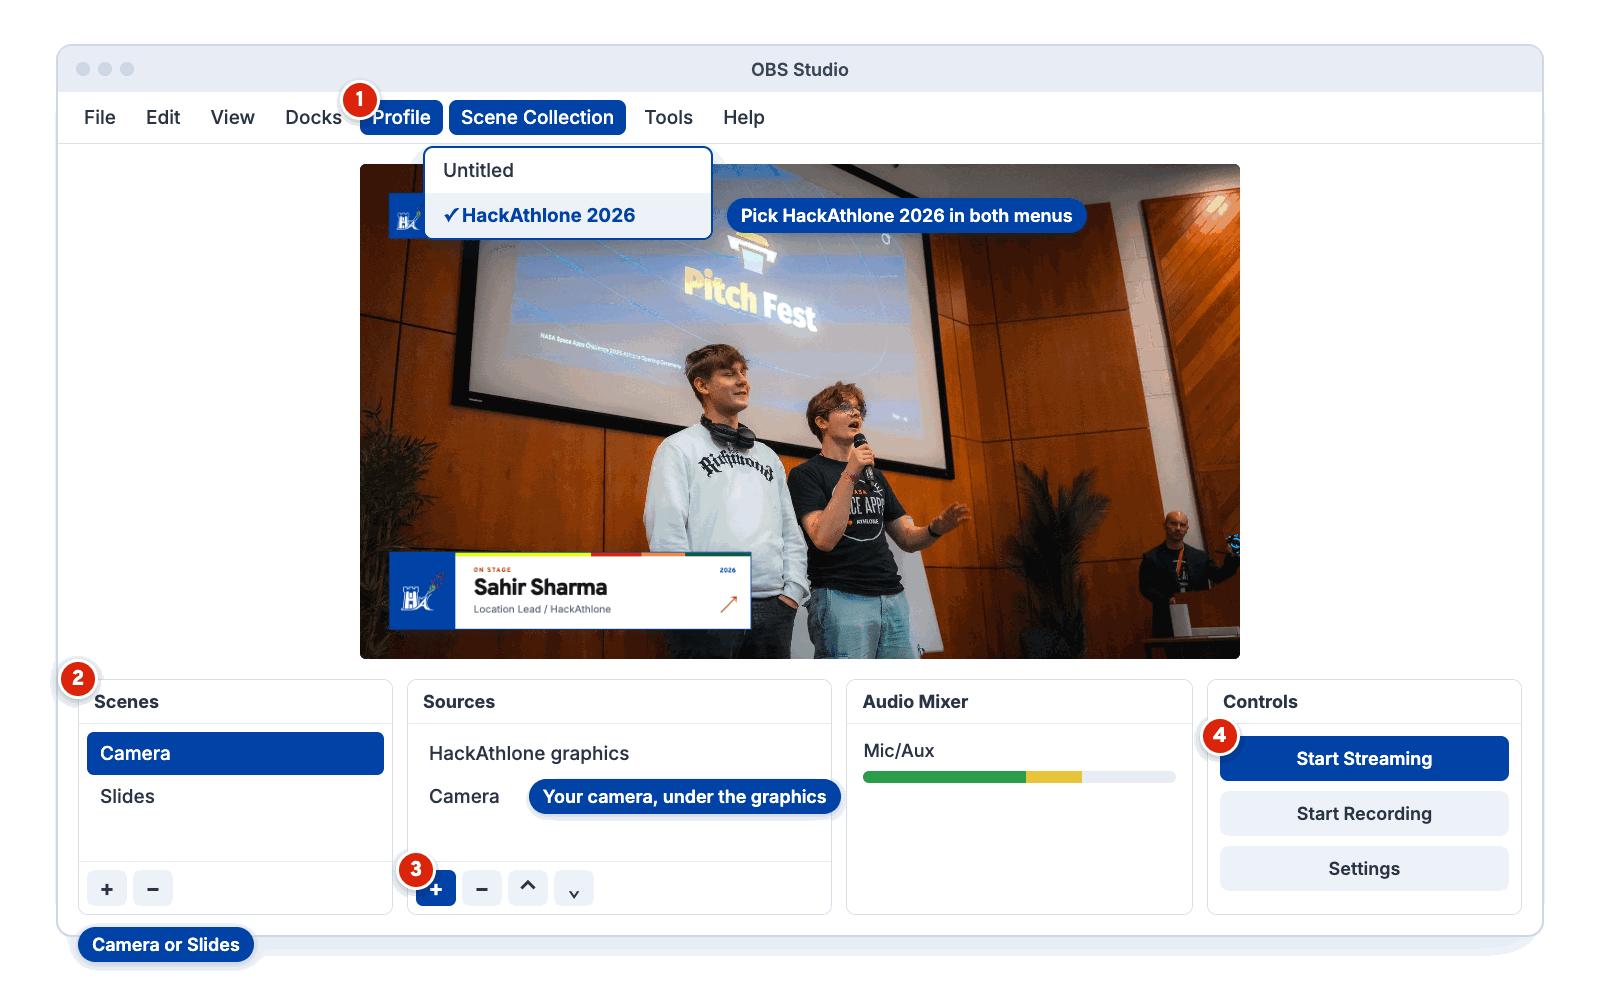
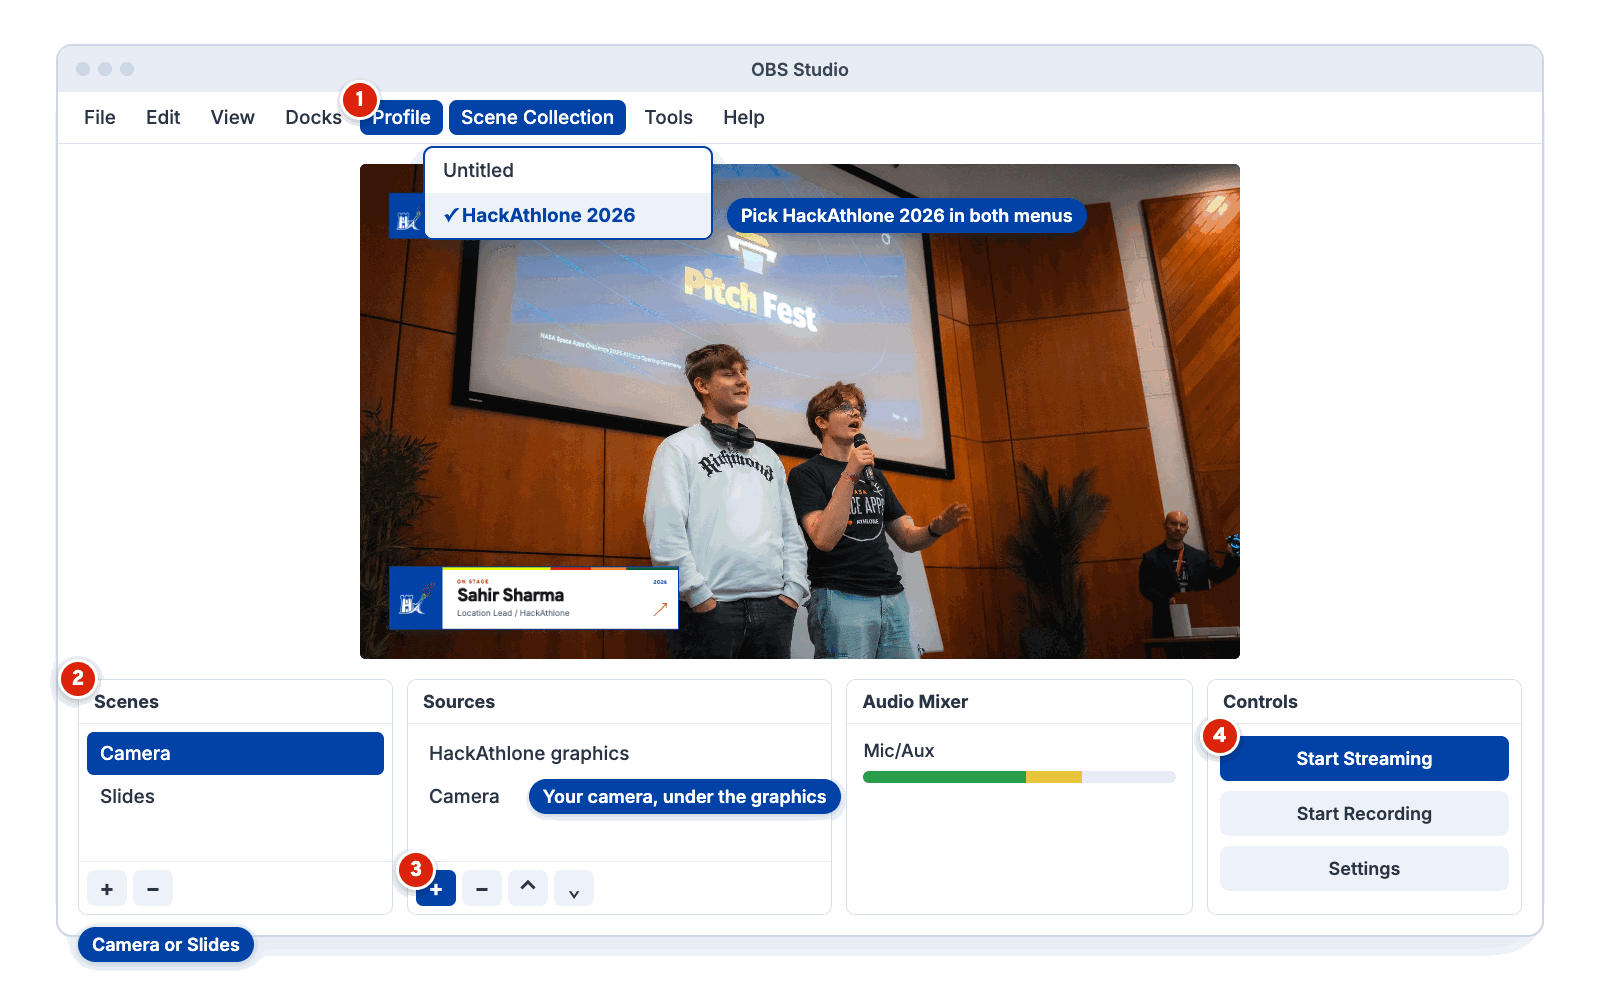
Make the speaker and team name graphic 80% of its size, and refresh the guide pictures

Changed region(s): [[0.2188, 0.5471, 0.4688, 0.6383]]

diff --git a/dist/overlay.css b/dist/overlay.css
@@ -3,7 +3,7 @@
 *{box-sizing:border-box}html,body{margin:0;width:100%;height:100%;overflow:hidden;background:transparent;color:#111;font-family:Inter,'Segoe UI',sans-serif}
 #canvas{--accent:#ff883e;--safe:64px;--electric:#0042a6;--rocket:#db240b;--flame:#ff883e;--forest:#0b5d3b;--neon:#eafe07;--line:#c9d8ef;width:1920px;height:1080px;position:absolute;transform-origin:top left;overflow:hidden}.hidden{opacity:0!important;visibility:hidden!important;pointer-events:none}.bug,.lower,.timer,.agenda,.partners,.ticker,.slate{transition:opacity .38s ease,transform .55s cubic-bezier(.22,1,.36,1),visibility .55s}
 .bug{position:absolute;top:var(--safe);left:var(--safe);display:flex;align-items:stretch}.brand-tile{width:98px;height:98px;background:var(--electric);display:grid;place-items:center;box-shadow:0 0 0 1px #00307a}.brand-tile img{width:72px;height:72px}.bug>div:last-child{min-width:340px;padding:19px 27px 15px;background:#fff;border:2px solid var(--electric);border-left:0;display:flex;flex-direction:column;justify-content:center;box-shadow:0 14px 32px #00307a1d}.bug b{color:#111;font:800 26px/1 Overpass,sans-serif;letter-spacing:-.035em}.bug span{margin-top:9px;color:var(--electric);font-size:13px;font-weight:750;letter-spacing:.13em;text-transform:uppercase}.bug.hidden{transform:translateY(-28px)}
-.lower{position:absolute;left:var(--safe);bottom:calc(var(--safe) + var(--bottom-offset,0px));min-width:790px;max-width:1500px;display:flex;background:#fff;border:2px solid var(--electric);box-shadow:0 18px 46px #00307a26;overflow:hidden}.lower:after{content:'';position:absolute;left:142px;right:0;top:0;height:8px;background:linear-gradient(90deg,var(--neon) 0 46%,var(--rocket) 46% 63%,var(--flame) 63% 78%,var(--forest) 78%)}.lower.hidden{transform:translateY(55px)}.lower-mark{width:142px;flex:0 0 142px;background:var(--electric);display:grid;place-items:center}.lower-mark img{width:102px;height:102px}.lower-content{min-width:0;padding:31px 40px 30px}.lower-eyebrow{display:block;color:var(--rocket);font:800 13px Overpass,sans-serif;letter-spacing:.2em}.lower h1{margin:8px 0 6px;color:#111;font:800 50px/.98 Overpass,sans-serif;letter-spacing:-.05em;overflow-wrap:anywhere}.lower p{margin:0;color:#586173;font-size:22px;overflow-wrap:anywhere}.lower-end{margin-left:auto;padding:31px 27px 23px 10px;color:var(--electric);font:750 14px Overpass,sans-serif;display:flex;flex-direction:column;justify-content:space-between}.lower-end span{color:var(--rocket);font-size:40px}
+.lower{position:absolute;left:var(--safe);bottom:calc(var(--safe) + var(--bottom-offset,0px));min-width:632px;max-width:1200px;display:flex;background:#fff;border:2px solid var(--electric);box-shadow:0 14px 37px #00307a26;overflow:hidden}.lower:after{content:'';position:absolute;left:114px;right:0;top:0;height:6px;background:linear-gradient(90deg,var(--neon) 0 46%,var(--rocket) 46% 63%,var(--flame) 63% 78%,var(--forest) 78%)}.lower.hidden{transform:translateY(44px)}.lower-mark{width:114px;flex:0 0 114px;background:var(--electric);display:grid;place-items:center}.lower-mark img{width:82px;height:82px}.lower-content{min-width:0;padding:25px 32px 24px}.lower-eyebrow{display:block;color:var(--rocket);font:800 11px Overpass,sans-serif;letter-spacing:.2em}.lower h1{margin:6px 0 5px;color:#111;font:800 40px/.98 Overpass,sans-serif;letter-spacing:-.05em;overflow-wrap:anywhere}.lower p{margin:0;color:#586173;font-size:18px;overflow-wrap:anywhere}.lower-end{margin-left:auto;padding:25px 22px 18px 8px;color:var(--electric);font:750 12px Overpass,sans-serif;display:flex;flex-direction:column;justify-content:space-between}.lower-end span{color:var(--rocket);font-size:32px}
 .timer{position:absolute;right:var(--safe);top:var(--safe);min-width:300px;padding:20px 29px 18px;background:#fff;border:2px solid var(--electric);border-top:8px solid var(--electric);text-align:right;box-shadow:0 14px 32px #00307a1d}.timer span{display:block;max-width:430px;color:var(--rocket);font:800 13px Overpass,sans-serif;letter-spacing:.18em}.timer strong{display:block;color:var(--electric);font:800 61px/.98 Overpass,sans-serif;letter-spacing:-.05em;font-variant-numeric:tabular-nums}.timer.expired{border-color:var(--rocket)}.timer.expired strong{color:var(--rocket)}
 .agenda{position:absolute;right:var(--safe);top:220px;width:570px;padding:33px 35px 30px;background:#fff;border:2px solid var(--electric);border-top:12px solid var(--electric);box-shadow:0 18px 46px #00307a26}.eyebrow{margin:0;color:var(--rocket);font:800 14px Overpass,sans-serif;letter-spacing:.2em}.agenda h2{margin:13px 0 23px;color:var(--electric);font:800 47px/.95 Overpass,sans-serif;letter-spacing:-.05em}.agenda-item{padding:19px 0;border-top:1px solid var(--line);display:flex;gap:23px}.agenda-item time{flex:0 0 83px;color:var(--electric);font:800 21px Overpass,sans-serif}.agenda-item b{display:block;color:#111;font:750 22px/1.15 Overpass,sans-serif}.agenda-item span{display:block;margin-top:7px;color:#657087;font-size:15px}.agenda footer{margin-top:17px;padding-top:16px;border-top:1px solid var(--line);color:var(--forest);font-size:11px;font-weight:750;letter-spacing:.13em}
 .partners{position:absolute;left:0;right:0;bottom:0;height:122px;background:#fff;border-top:7px solid var(--electric);display:flex;align-items:center;box-shadow:0 -12px 36px #00307a17}.partner-heading{height:115px;flex:0 0 320px;padding:0 38px;background:var(--electric);color:#fff;font:800 14px/1.45 Overpass,sans-serif;letter-spacing:.14em;display:flex;align-items:center;position:relative}.partner-heading span{position:absolute;right:25px;top:36px;color:var(--neon);font-size:31px}.partner-window{height:100%;flex:1;overflow:hidden}.partner-track{height:100%;width:max-content;display:flex;animation:marquee var(--speed,35s) linear infinite}.partner-group{height:100%;display:flex;align-items:center;flex-shrink:0}.partner{height:100%;min-width:400px;padding:0 50px;border-right:1px solid var(--line);display:flex;align-items:center}.partner>div{width:100%}.partner small{display:block;margin-bottom:8px;color:var(--rocket);font:800 10px Overpass,sans-serif;letter-spacing:.16em}.partner b{color:#111;font:800 27px Overpass,sans-serif;white-space:nowrap}.partner img{display:block;max-width:230px;max-height:64px;object-fit:contain;background:var(--electric);padding:7px 12px}
@@ -33,14 +33,14 @@
 @keyframes slate-rise{from{opacity:0;transform:translateY(34px)}to{opacity:1;transform:translateY(0)}}
 @keyframes logo-pop{from{opacity:0;transform:scale(.82);transform-origin:left center}to{opacity:1;transform:scale(1);transform-origin:left center}}
 @keyframes panel-arrive{from{opacity:0;transform:translateY(-22px) scale(.98)}to{opacity:1;transform:translateY(0) scale(1)}}
-@keyframes lower-arrive{from{opacity:0;transform:translateY(42px)}to{opacity:1;transform:translateY(0)}}
-@keyframes lower-arrive-centered{from{opacity:0;transform:translate(-50%,42px)}to{opacity:1;transform:translate(-50%,0)}}
+@keyframes lower-arrive{from{opacity:0;transform:translateY(34px)}to{opacity:1;transform:translateY(0)}}
+@keyframes lower-arrive-centered{from{opacity:0;transform:translate(-50%,34px)}to{opacity:1;transform:translate(-50%,0)}}
 @keyframes orbit-glow{from{filter:brightness(2)}to{filter:brightness(1)}}
 @media(prefers-reduced-motion:reduce){#canvas.scene-enter:after{animation:none}#canvas.scene-enter .slate-content,#canvas.scene-enter .slate-logo,#canvas.scene-enter .bug,#canvas.scene-enter .timer,#canvas.scene-enter .agenda,#canvas.scene-enter .lower{animation:none}}
 .capture #canvas.scene-enter:after{display:none}
 .capture #canvas.scene-enter .slate-content,.capture #canvas.scene-enter .slate-logo,.capture #canvas.scene-enter .bug,.capture #canvas.scene-enter .timer,.capture #canvas.scene-enter .agenda,.capture #canvas.scene-enter .lower{animation:none}
 .lower.team-lower{left:50%;transform:translateX(-50%)}
-.lower.team-lower.hidden{transform:translate(-50%,55px)}
+.lower.team-lower.hidden{transform:translate(-50%,44px)}
 .lower.team-lower .lower-content{text-align:center}
 /* Use one continuous white slate footer instead of the overlapping broken comb. */
 .slate:before{inset:auto 0 0;height:58px;background:#fff}
